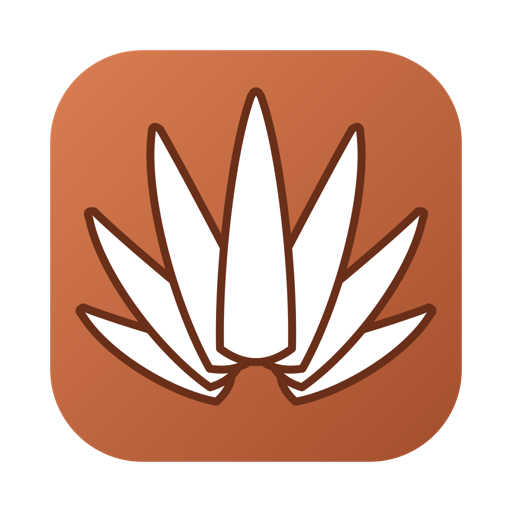
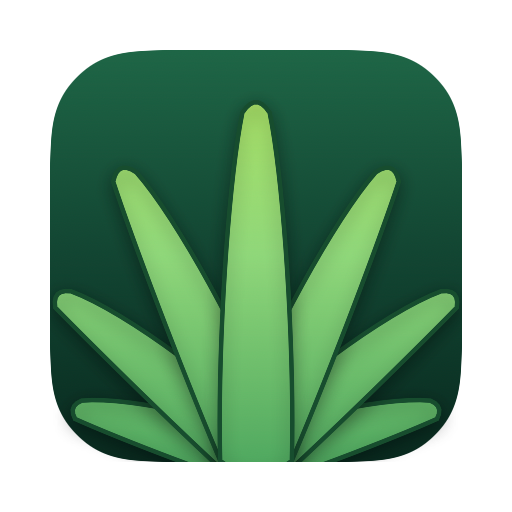
Agave Audio: новое название, зелёная иконка и акцент для Currant

diff --git a/README.md b/README.md
@@ -1,4 +1,4 @@
-# Agave
+# Agave Audio
 
 Пакетный конвертер звука для macOS. Нативный SwiftUI, универсальный бинарник
 (Apple Silicon + Intel). Распространяется напрямую (Developer ID + нотаризация,
@@ -7,6 +7,8 @@
 
 Перетащил файлы или папку → выбрал формат → нажал «Конвертировать». Папка
 экспорта запоминается между запусками, рядом кнопка «Открыть».
+
+Родственное приложение для видео — [Agave Video](https://github.com/white-currant/AgaveVideo).
 
 ---
 
